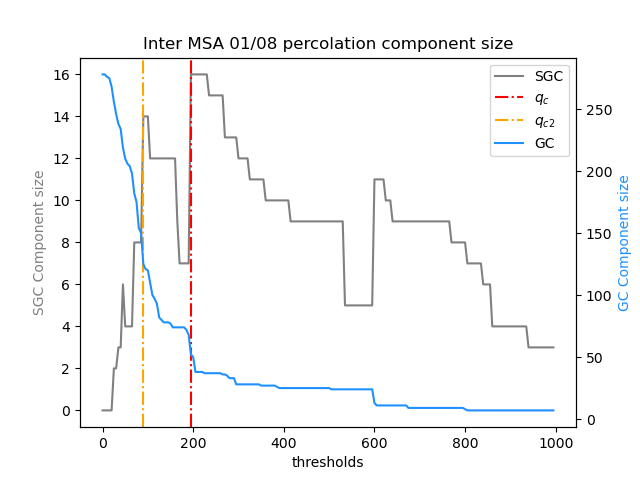
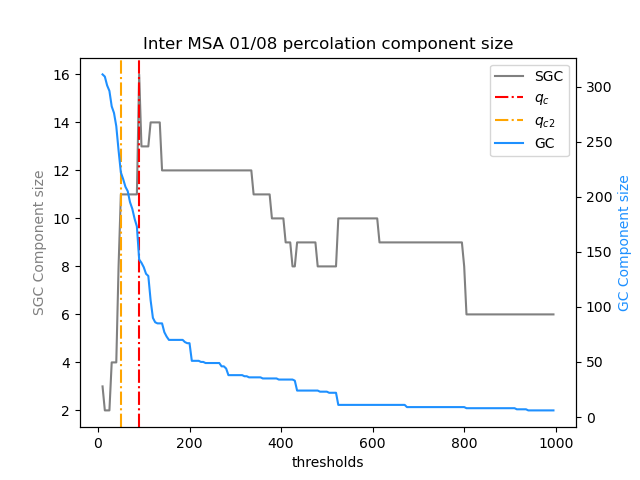
update processed data

diff --git a/process.py b/process.py
@@ -1,66 +1,58 @@
 import csv
 import os
 from read_file import *
+from whole_network import read_files_whole
 
-date = dt.date(2020, 1, 1)
+date = dt.date(2020, 1, 8)
 
 
 def aug_file(date):
     return 'processed_data/'+aug_str(date.month)+'/'+aug_str(date.day)+'/'
 
 
-while date < dt.date(2020, 10, 1):
+while date < dt.date(2020, 11, 1):
     os.mkdir('processed_data/'+aug_str(date.month)+'/'+aug_str(date.day))
+    path = 'processed_data/'+aug_str(date.month)+'/'+aug_str(date.day) + '/'
 
-    df = pd.read_csv(file_str(date))
+    device_count, dest, m_dev, m_dest = read_files_whole(date)
 
-    dest_cbgs = dict()
-    device_count = dict()
-
-    for ind in df.index:
-        block = str(df['origin_census_block_group'][ind])
-        if not in_states(block):
-            continue
-
-        device_count[block] = df['device_count'][ind]
-
-        dests = parse_str(df['destination_cbgs'][ind])
-        for i in dests.keys():
-            if i == block:
-                continue
-
-            if not in_states(i):
-                continue
-
-            dest_cbgs[block, i] = dests[i]
-
-    with open(aug_file(date) + 'edge.csv', mode='x') as edges:
+    with open(path + 'inter_msa_edge.csv', mode='x') as edges:
 
         csvwriter = csv.writer(edges)
 
-        csvwriter.writerow(['from', 'to', 'weight', 'type', 'fm', 'tm'])
+        csvwriter.writerow(['edge', 'weight'])
 
-        for a, b in dest_cbgs.keys():
-            am = MSA_id(a)
-            bm = MSA_id(b)
-            if am == -1 or bm == -1:
-                continue
-            if am == bm:
-                t = 'i'
-            else:
-                t = 'c'
-            csvwriter.writerow([a, b, dest_cbgs[(a, b)], t, am, bm])
+        for i in dest.keys():
+            csvwriter.writerow([i, dest[i]])
 
-    with open(aug_file(date) + 'device.csv', mode='x') as devices:
+    with open(path + 'msa_edge.csv', mode='x') as edges:
+
+        csvwriter = csv.writer(edges)
+
+        csvwriter.writerow(['edge', 'weight', 'msa'])
+
+        for i in m_dest.keys():
+            for j in m_dest[i].keys():
+                if m_dest[i][j] > 2:
+                    csvwriter.writerow([j, m_dest[i][j], i])
+
+    with open(path + 'inter_msa_device.csv', mode='x') as devices:
+
+        csvwriter = csv.writer(devices)
+
+        csvwriter.writerow(['msa', 'device'])
+
+        for i in device_count.keys():
+            csvwriter.writerow([i, device_count[i]])
+
+    with open(path + 'msa_device.csv', mode='x') as devices:
 
         csvwriter = csv.writer(devices)
 
         csvwriter.writerow(['bg', 'device', 'msa'])
 
-        for j in device_count.keys():
-            m = MSA_id(j)
-            if m == -1:
-                continue
-            csvwriter.writerow([j, device_count[j], m])
+        for i in m_dev.keys():
+            for j in m_dev[i].keys():
+                csvwriter.writerow([j, m_dev[i][j], i])
 
-    date += dt.timedelta(days=1)
+    date += dt.timedelta(days=7)

diff --git a/inter_MSA.py b/inter_MSA.py
@@ -4,7 +4,7 @@ from statistics import median
 from matplotlib.lines import Line2D
 from read_file import *
 import matplotlib.pyplot as plt
-import geopandas as gpd
+# import geopandas as gpd
 import json
 
 
@@ -28,7 +28,7 @@ class InterMsaG:
         self.flux = total_flux(self.g)
 
         # calculate qc and following features
-        self.thresholds = np.arange(0, 1000, 5)
+        self.thresholds = np.arange(10, 1000, 5)
 
         self.num_g, self.num_sg, self.dev_g, self.dev_sg = calc_g_sg(self.g, self.thresholds, self.device_count)
         index_qc, index_qcb = l_sl_value(self.num_sg)
@@ -61,7 +61,7 @@ class InterMsaG:
         self.device_25 = np.percentile(dc, 25)
         self.device_75 = np.percentile(dc, 75)
 
-        # self.plot_map(self.g_perco, 1)
+        self.plot_map(self.g_perco, 1)
         # self.plot_map(self.g_perco_1, 0)
 
     def __eq__(self, other):
@@ -95,7 +95,7 @@ class InterMsaG:
 
     def plot_map(self, g, num):
         plt.figure()
-        gdf = gpd.read_file('shape_file/tl_2017_us_county/tl_2017_us_county.shp')
+        gdf = gpd.read_file('shape_file/tl_2019_us_cbsa/tl_2019_us_cbsa.shp')
         gdf['GEOID'] = gdf['GEOID'].astype(str)
         centroids = gdf['geometry'].centroid
         lons, lats = [list(t) for t in zip(*map(get_xy, centroids))]
@@ -130,7 +130,7 @@ class InterMsaG:
                                         ),
                         )
 
-        s_largest_cc = self.g_perco.subgraph(cc[1])
+        s_largest_cc = g.subgraph(cc[1])
         nx.draw_networkx_nodes(s_largest_cc, pos=pos, node_color='mediumspringgreen', node_size=1, alpha=1)
         for i, j in s_largest_cc.edges():
             ax.annotate("",
@@ -156,8 +156,10 @@ class InterMsaG:
                                         connectionstyle="arc3,rad=0.3",
                                         ),
                         )
-
-        rest = self.g_perco.subgraph(cc[2:])
+        tmp = set()
+        for i in cc[2:]:
+            tmp |= i
+        rest = g.subgraph(tmp)
         nx.draw_networkx_nodes(rest, pos=pos, node_color='silver', node_size=1, alpha=1)
         for i, j in rest.edges():
             ax.annotate("",
@@ -173,7 +175,7 @@ class InterMsaG:
         # manually add legend
         labels = ['GC', 'SGC', 'Bottleneck', 'Rest']
         colors = ['dodgerblue', 'mediumspringgreen', 'r', 'silver']
-        lines = [Line2D([0], [0], color=c, linewidth=3, alpha=0.85) for c in colors]
+        lines = [Line2D([0], [0], color=c, linewidth=2, alpha=0.85) for c in colors]
         plt.legend(lines, labels, fontsize=8, loc=0)
         plt.title('Inter MSA ' + self.date.strftime('%m/%d') + ' map '+str(num))
         plt.savefig('results/interMSA/' + self.date.strftime('%m_%d') + '_map'+str(num)+'.png')

diff --git a/inner_MSA.py b/inner_MSA.py
@@ -4,7 +4,7 @@ from statistics import median
 from matplotlib.lines import Line2D
 import powerlaw
 import networkx as nx
-import geopandas as gpd
+# import geopandas as gpd
 
 # NY NJ PA 5602
 # LA 4472
@@ -26,7 +26,7 @@ class MSA:
         self.flux = total_flux(self.g)
 
         # calculate qc and following features
-        self.thresholds = np.arange(1, 75, .25)
+        self.thresholds = np.arange(2, 75, .25)
 
         self.num_g, self.num_sg, self.dev_g, self.dev_sg = calc_g_sg(self.g, self.thresholds, device)
         index_qc, index_qcb = l_sl_value(self.num_sg)
@@ -151,7 +151,10 @@ class MSA:
     #                                     ),
     #                     )
     #
-    #     rest = self.g_perco.subgraph(cc[2:])
+        # tmp = set()
+        # for i in cc[2:]:
+        #     tmp.add(i)
+        # rest = self.g_perco.subgraph(tmp)
     #     nx.draw_networkx_nodes(rest, pos=pos, node_color='silver', node_size=node_size, alpha=1)
     #     for i, j in rest.edges():
     #         ax.annotate("",
@@ -167,7 +170,7 @@ class MSA:
     #     # manually add legend
     #     labels = ['GC', 'SGC', 'Bottleneck', 'Rest']
     #     colors = ['dodgerblue', 'mediumspringgreen', 'r', 'silver']
-    #     lines = [Line2D([0], [0], color=c, linewidth=3, alpha=0.85) for c in colors]
+    #     lines = [Line2D([0], [0], color=c, linewidth=2, alpha=0.85) for c in colors]
     #     plt.legend(lines, labels, fontsize=8, loc=0)
     #     plt.title('MSA '+str(self.id)+' '+self.date.strftime('%m/%d')+' map')
     #

diff --git a/whole_network.py b/whole_network.py
@@ -11,7 +11,7 @@ def file_whole(path):
     df = pd.read_csv(path)
 
     for ind in df.index:
-        block = str(df['origin_census_block_group'][ind])
+        block = block_str(str(df['origin_census_block_group'][ind]))
 
         block_m = MSA_id(block)
         if block_m == -1:
@@ -26,23 +26,28 @@ def file_whole(path):
 
         dests = parse_str(df['destination_cbgs'][ind])
         for i in dests.keys():
-            if dests[i] <= 2:
+
+            str_i = block_str(str(i))
+
+            if str_i == block:
                 continue
 
-            if i == block:
-                continue
-
-            i_m = MSA_id(i)
+            i_m = MSA_id(str_i)
             if i_m == -1:
                 continue
 
             if i_m != block_m:
-                if (block_m, i_m) in dest.keys():
-                    dest[(block_m, i_m)] += dests[i]
+                tmp = tuple(sorted([block_m, i_m]))
+                if tmp in dest.keys():
+                    dest[tmp] += dests[i]
                 else:
-                    dest[(block_m, i_m)] = dests[i]
+                    dest[tmp] = dests[i]
             else:
-                m_dest[block_m][(block, i)] = dests[i]
+                tmp = tuple(sorted([block, str_i]))
+                if tmp in m_dest[block_m].keys():
+                    m_dest[block_m][tmp] += dests[i]
+                else:
+                    m_dest[block_m][tmp] = dests[i]
 
     return device_count, dest, m_dev, m_dest
 

diff --git a/main.py b/main.py
@@ -36,8 +36,8 @@ def main(file, state_id):
 
 
 if __name__ == '__main__':
-    start = dt.date(2020, 1, 8)
-    end = dt.date(2020, 10, 29)
+    start = dt.date(2020, 9, 8)
+    end = dt.date(2020, 9, 9)
 
     tmp = start
 
@@ -57,9 +57,9 @@ if __name__ == '__main__':
         dates.append(tmp)
         nation = Nation(tmp)
 
-        # nation.interMSA.plot_hist()
-        # nation.interMSA.plot_g_sg()
-        # nation.interMSA.plot_g_sg_device()
+        nation.interMSA.plot_hist()
+        nation.interMSA.plot_g_sg()
+        nation.interMSA.plot_g_sg_device()
         # nation.interMSA.plot_msa_qc()
 
         datas['interMSA']['edge_w'].append(nation.interMSA.edge_w_median)

diff --git a/MSAfips.py b/MSAfips.py
@@ -1,4 +1,3 @@
-import json
 from read_file import *
 
 
@@ -24,7 +23,13 @@ for ind in df.index:
     if msa not in MSA_fips.keys():
         MSA_fips[msa] = []
 
-    MSA_fips[msa].append(str(df['county'][ind]))
+    block = str(df['county'][ind])
+    if len(block) == 4:
+        block = '0' + block
+
+    if not in_states(block):
+        continue
+    MSA_fips[msa].append(block)
     MSA_name[msa] = str(df['msa-name'][ind])[:str(df['msa-name'][ind]).find('(')-1]
 
 with open("data/MSAfips.json", "w") as outfile:
